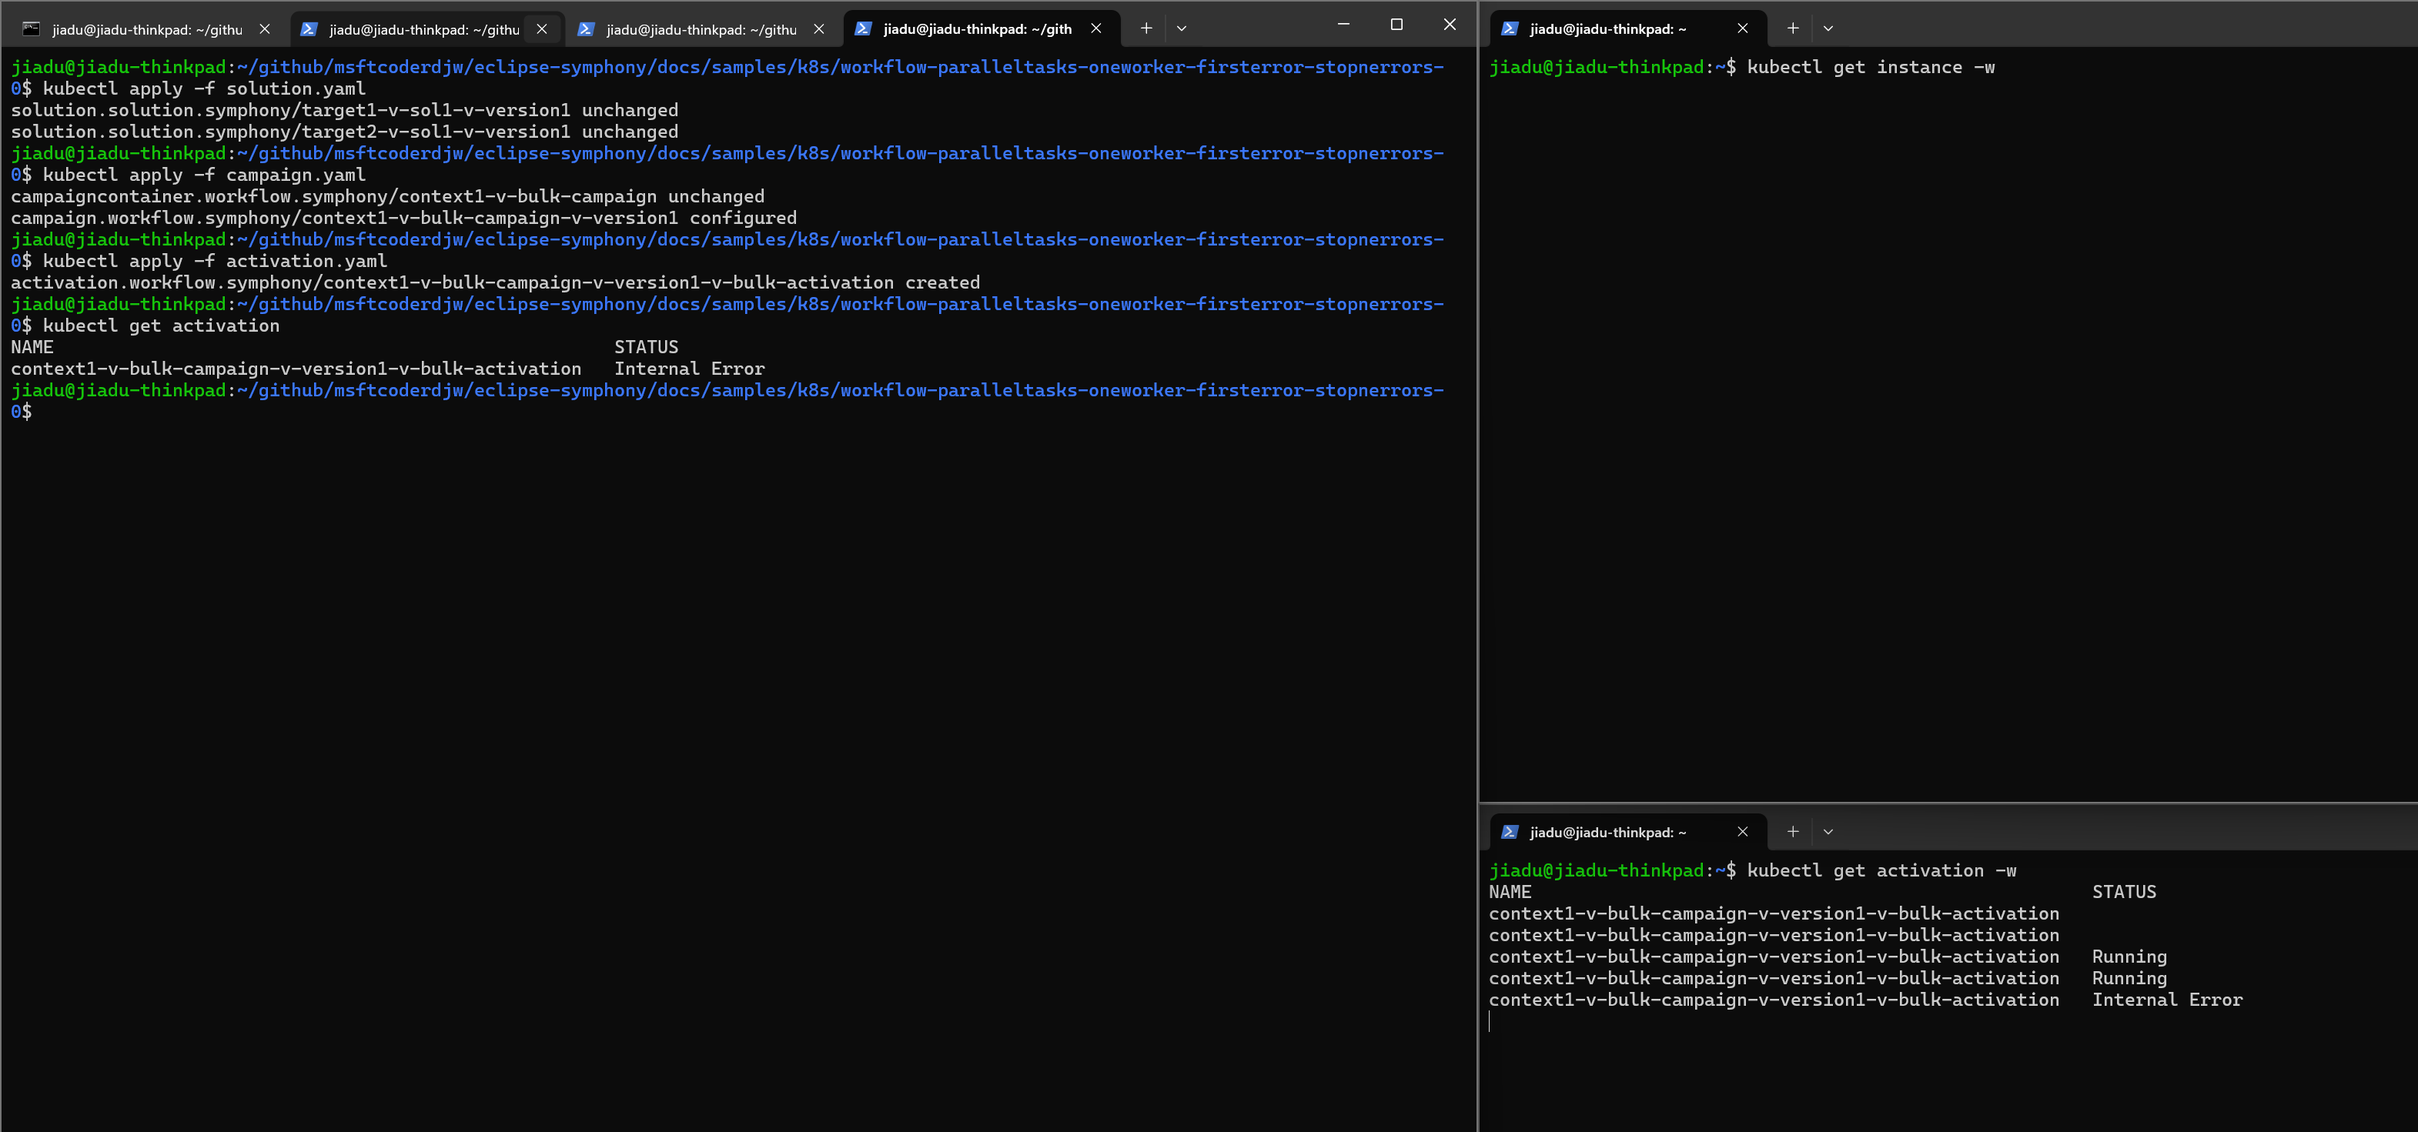
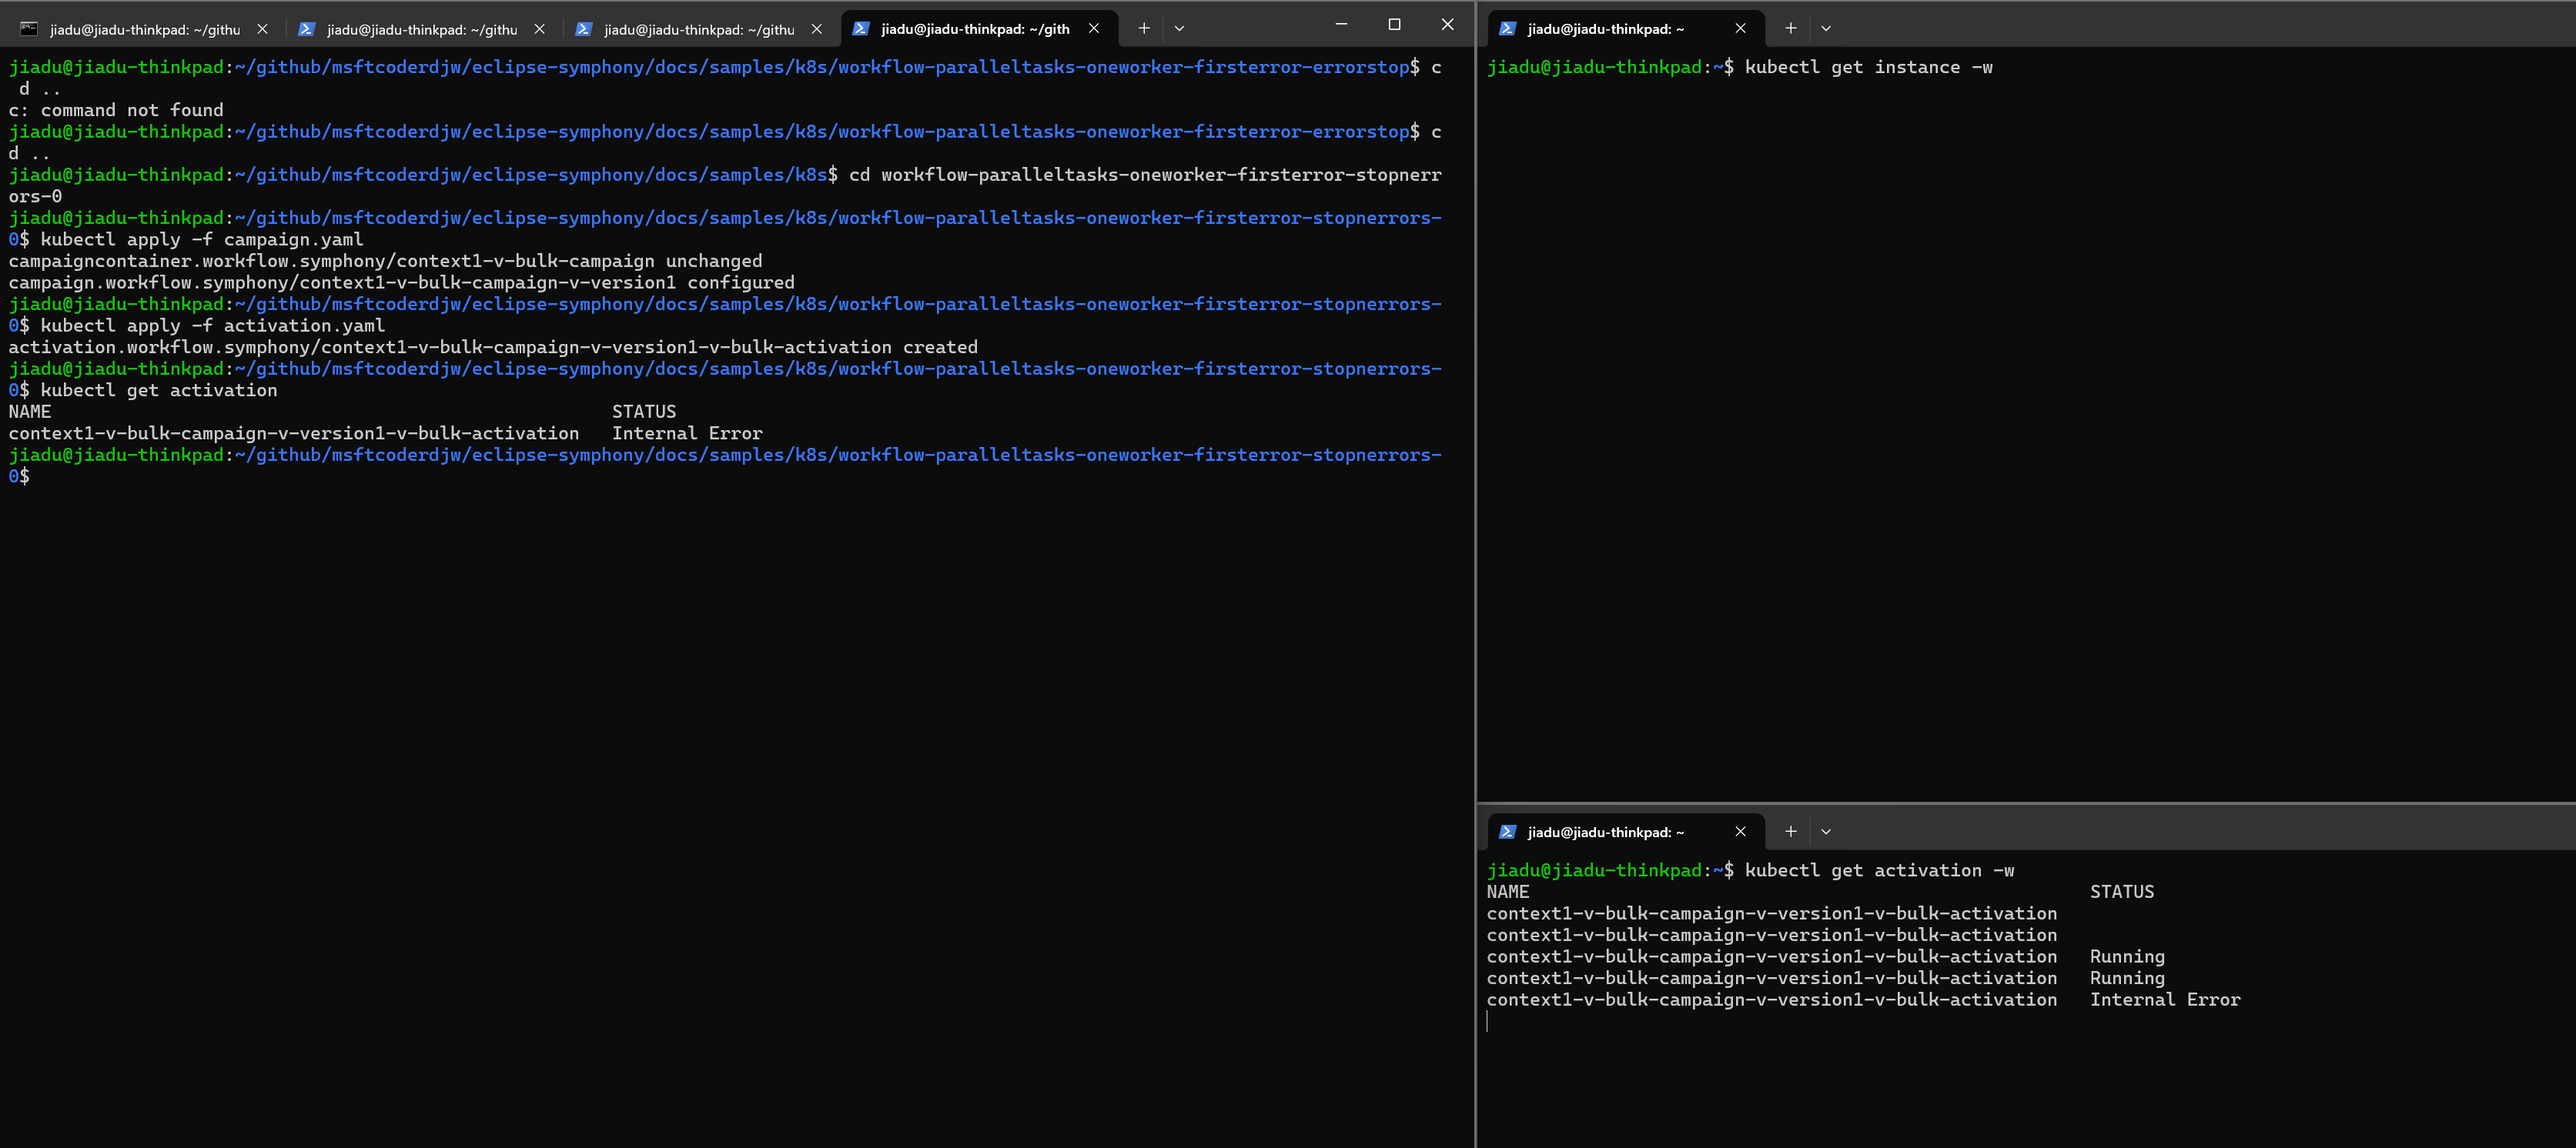
fix error outputs

Changed region(s): [[0.0, 0.0, 0.8112, 0.4283], [0.5616, 0.673, 1.0, 0.8872]]

diff --git a/api/pkg/apis/v1alpha1/managers/stage/stage-manager.go b/api/pkg/apis/v1alpha1/managers/stage/stage-manager.go
@@ -993,8 +993,8 @@ func (s *StageManager) HandleTriggerEvent(ctx context.Context, campaign model.Ca
 				if result.Site == s.Context.SiteInfo.SiteId {
 					site = ""
 				}
-				status.Outputs = carryOutPutsToErrorStatus(nil, err, site)
-				result.Outputs = carryOutPutsToErrorStatus(nil, err, site)
+				status.Outputs = carryOutPutsToErrorStatus(result.Outputs, err, site)
+				result.Outputs = carryOutPutsToErrorStatus(result.Outputs, err, site)
 				log.ErrorfCtx(ctx, " M (Stage): failed to process stage %s for site %s outputs: %v", triggerData.Stage, site, err)
 				hasStageError = true
 			}
